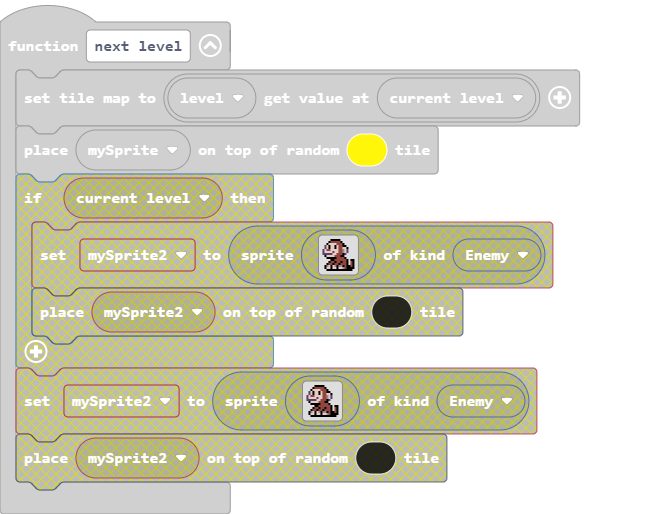
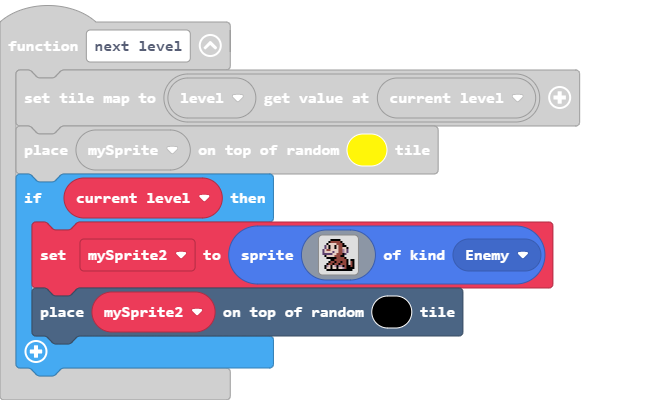
Update main.blocks, main.ts, images.g.jres, images.g.ts

diff --git a/images.g.ts b/images.g.ts
@@ -299,6 +299,42 @@ c c c c c d d e e e f c . . . .
 . f d d f d d f d d b e f f f f 
 . . f f f f f f f f f f f f f . 
 `;
+            case "image8":return img`
+. . . . f f f f f . . . . . . . 
+. . . f e e e e e f . . . . . . 
+. . f d d d d e e e f . . . . . 
+. c d f d d f d e e f f . . . . 
+. c d f d d f d e e d d f . . . 
+c d e e d d d d e e b d c . . . 
+c d d d d c d d e e b d c . . . 
+c c c c c d d e e e f c . . . . 
+. f d d d d e e e f f . . . . . 
+. . f f f f f e e e e f . . . . 
+. . . . f f e e e e e e f . f f 
+. . . f e e f e e f e e f . e f 
+. . f e e f e e f e e e f . e f 
+. f b d f d b f b b f e f f e f 
+. f d d f d d f d d b e f f f f 
+. . f f f f f f f f f f f f f . 
+`;
+            case "image9":return img`
+. . . . f f f f f . . . . . . . 
+. . . f e e e e e f . . . . . . 
+. . f d d d d e e e f . . . . . 
+. c d f d d f d e e f f . . . . 
+. c d f d d f d e e d d f . . . 
+c d e e d d d d e e b d c . . . 
+c d d d d c d d e e b d c . . . 
+c c c c c d d e e e f c . . . . 
+. f d d d d e e e f f . . . . . 
+. . f f f f f e e e e f . . . . 
+. . . . f f e e e e e e f . f f 
+. . . f e e f e e f e e f . e f 
+. . f e e f e e f e e e f . e f 
+. f b d f d b f b b f e f f e f 
+. f d d f d d f d d b e f f f f 
+. . f f f f f f f f f f f f f . 
+`;
         }
         return null;
     })

diff --git a/main.ts b/main.ts
@@ -29,6 +29,27 @@ scene.onHitTile(SpriteKind.Player, 7, function (sprite) {
 function next_level () {
     scene.setTileMap(level[current_level])
     scene.placeOnRandomTile(mySprite, 5)
+    if (current_level) {
+        mySprite2 = sprites.create(img`
+            . . . . f f f f f . . . . . . . 
+            . . . f e e e e e f . . . . . . 
+            . . f d d d d e e e f . . . . . 
+            . c d f d d f d e e f f . . . . 
+            . c d f d d f d e e d d f . . . 
+            c d e e d d d d e e b d c . . . 
+            c d d d d c d d e e b d c . . . 
+            c c c c c d d e e e f c . . . . 
+            . f d d d d e e e f f . . . . . 
+            . . f f f f f e e e e f . . . . 
+            . . . . f f e e e e e e f . f f 
+            . . . f e e f e e f e e f . e f 
+            . . f e e f e e f e e e f . e f 
+            . f b d f d b f b b f e f f e f 
+            . f d d f d d f d d b e f f f f 
+            . . f f f f f f f f f f f f f . 
+            `, SpriteKind.Enemy)
+        scene.placeOnRandomTile(mySprite2, 15)
+    }
 }
 sprites.onOverlap(SpriteKind.enemyprojectile, SpriteKind.Player, function (sprite, otherSprite) {
     mySprite.destroy(effects.disintegrate, 5000)
